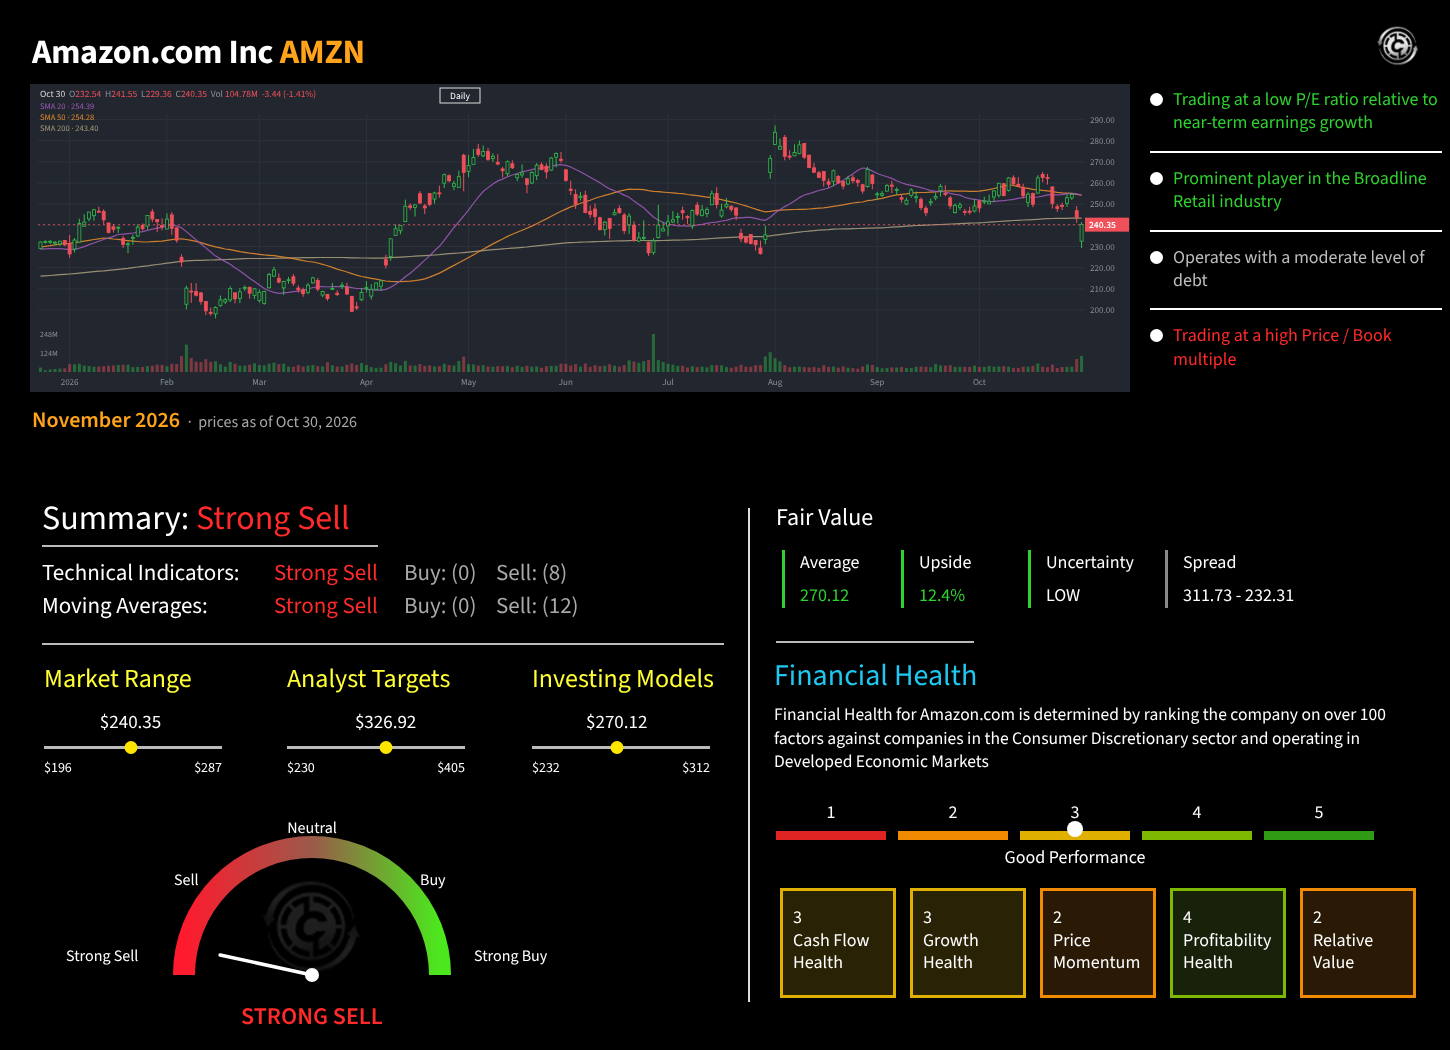
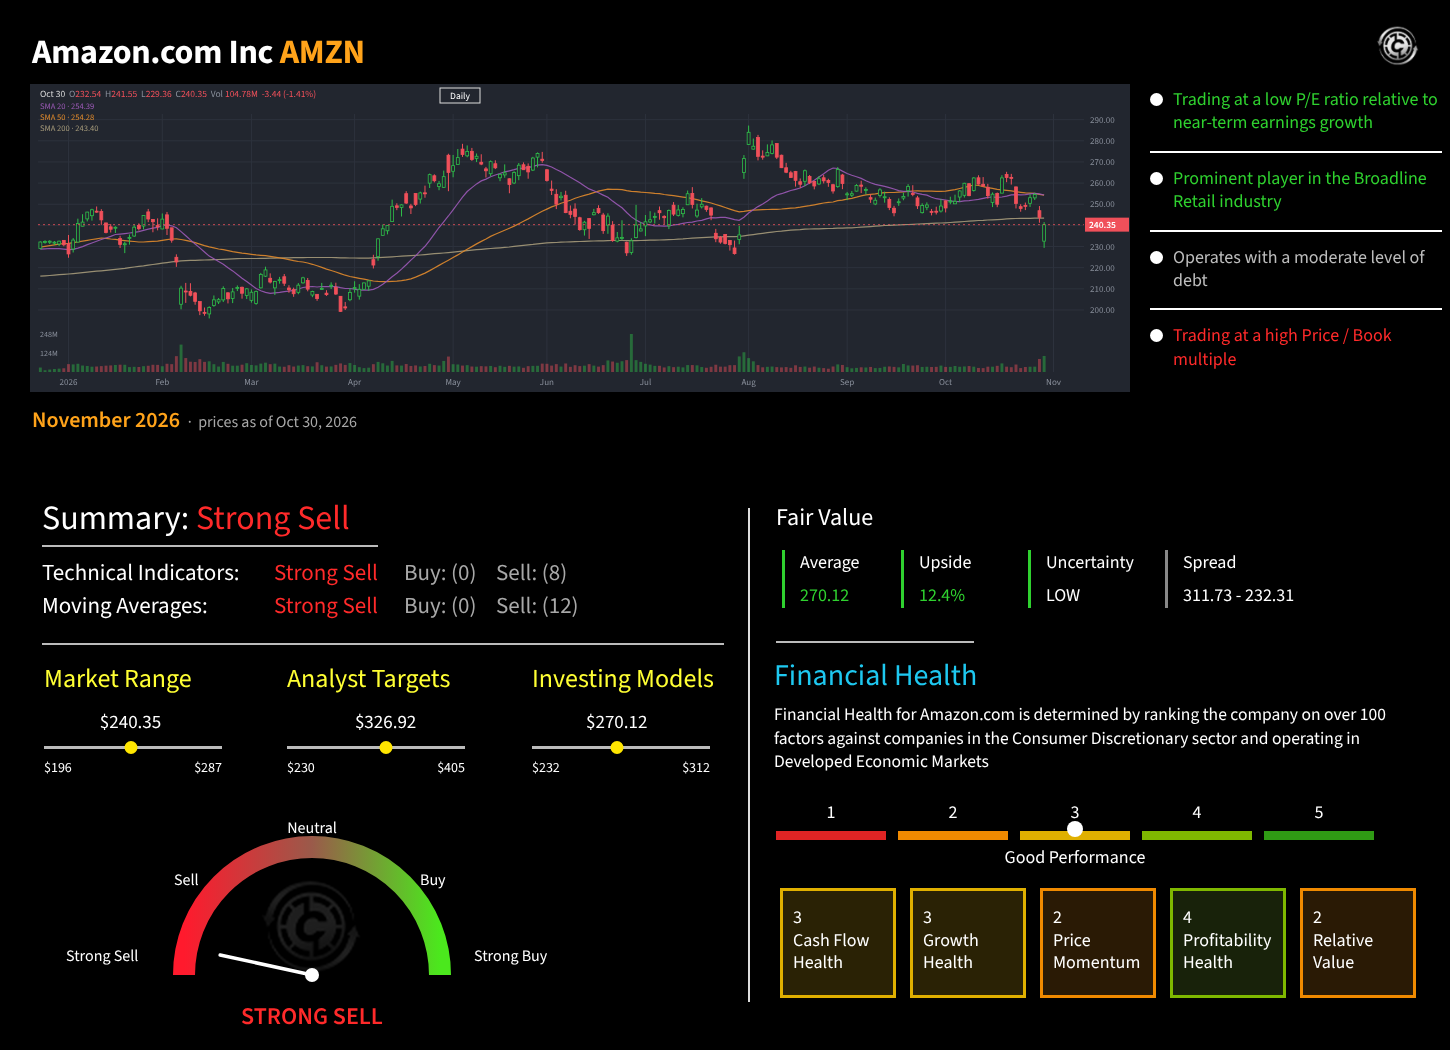
Show next month on the chart axis; allow 52-week range override (FDX)
Claude-Session: https://claude.ai/code/session_01NfDHo4pB8hYdn7qabgsW4s

Changed region(s): [[0.031, 0.1219, 0.7448, 0.3048], [0.031, 0.3352, 0.7448, 0.3657]]

diff --git a/src/chart.js b/src/chart.js
@@ -34,7 +34,8 @@ function chartSVG(allBars, { width = 1100, height = 308, visible = 215 } = {}) {
 
   const padL = 8, padR = 46, top = 30, priceBottom = height - 62, volTop = height - 58, volBottom = height - 20;
   const plotW = width - padL - padR;
-  const step = plotW / bars.length;
+  const future = 8; // empty slots after the last candle so the next month's label shows
+  const step = plotW / (bars.length + future);
   const bodyW = Math.max(1.5, step * 0.62);
 
   const lo = Math.min(...bars.map((b) => b.low)), hi = Math.max(...bars.map((b) => b.high));
@@ -66,6 +67,16 @@ function chartSVG(allBars, { width = 1100, height = 308, visible = 215 } = {}) {
       svg += `<text x="${x(i)}" y="${height - 7}" font-size="9" fill="${C.axis}" text-anchor="middle">${label}</text>`;
     }
   });
+
+  // Next month label in the empty space after the last candle
+  {
+    const ld = new Date(lastBar.t * 1000);
+    const nm = (ld.getUTCMonth() + 1) % 12;
+    const xi = x(bars.length + 1);
+    const label = nm === 0 ? String(ld.getUTCFullYear() + 1) : months[nm];
+    svg += `<line x1="${xi}" x2="${xi}" y1="${top}" y2="${volBottom}" stroke="${C.grid}" stroke-width="1"/>`;
+    svg += `<text x="${xi}" y="${height - 7}" font-size="9" fill="${C.axis}" text-anchor="middle">${label}</text>`;
+  }
 
   // Volume
   bars.forEach((b, i) => {

diff --git a/src/build.js b/src/build.js
@@ -60,6 +60,8 @@ async function main() {
       high52: Math.max(...year.map((b) => b.high)),
       asOf: new Date(bars[bars.length - 1].t * 1000).toISOString().slice(0, 10),
     };
+    const mr = monthData[stock.ticker].marketRange; // optional override, e.g. after a spin-off
+    if (mr) Object.assign(market, { low52: mr.low, high52: mr.high });
     market.asOfLabel = new Date(market.asOf + 'T12:00:00Z').toLocaleDateString('en-US', { month: 'short', day: 'numeric', year: 'numeric', timeZone: 'UTC' });
     const [yy, mm] = monthArg.split('-').map(Number);
     const monthLabel = new Date(Date.UTC(yy, mm - 1, 15)).toLocaleDateString('en-US', { month: 'long', year: 'numeric', timeZone: 'UTC' });

diff --git a/README.md b/README.md
@@ -31,6 +31,10 @@ On Investing.com, open the stock's **Technical** tab, select **Daily**, and copy
 
 Leave it out and the card uses its own calculation, which usually matches.
 
+### Optional: 52-week range
+
+If the Market Range on the card doesn't match InvestingPro (it can happen after a spin-off or similar event, because the price source adjusts older prices), add `"marketRange": { "low": 249.83, "high": 404.03 }` to that stock.
+
 ## What is automatic
 
 | On the card | Source |
